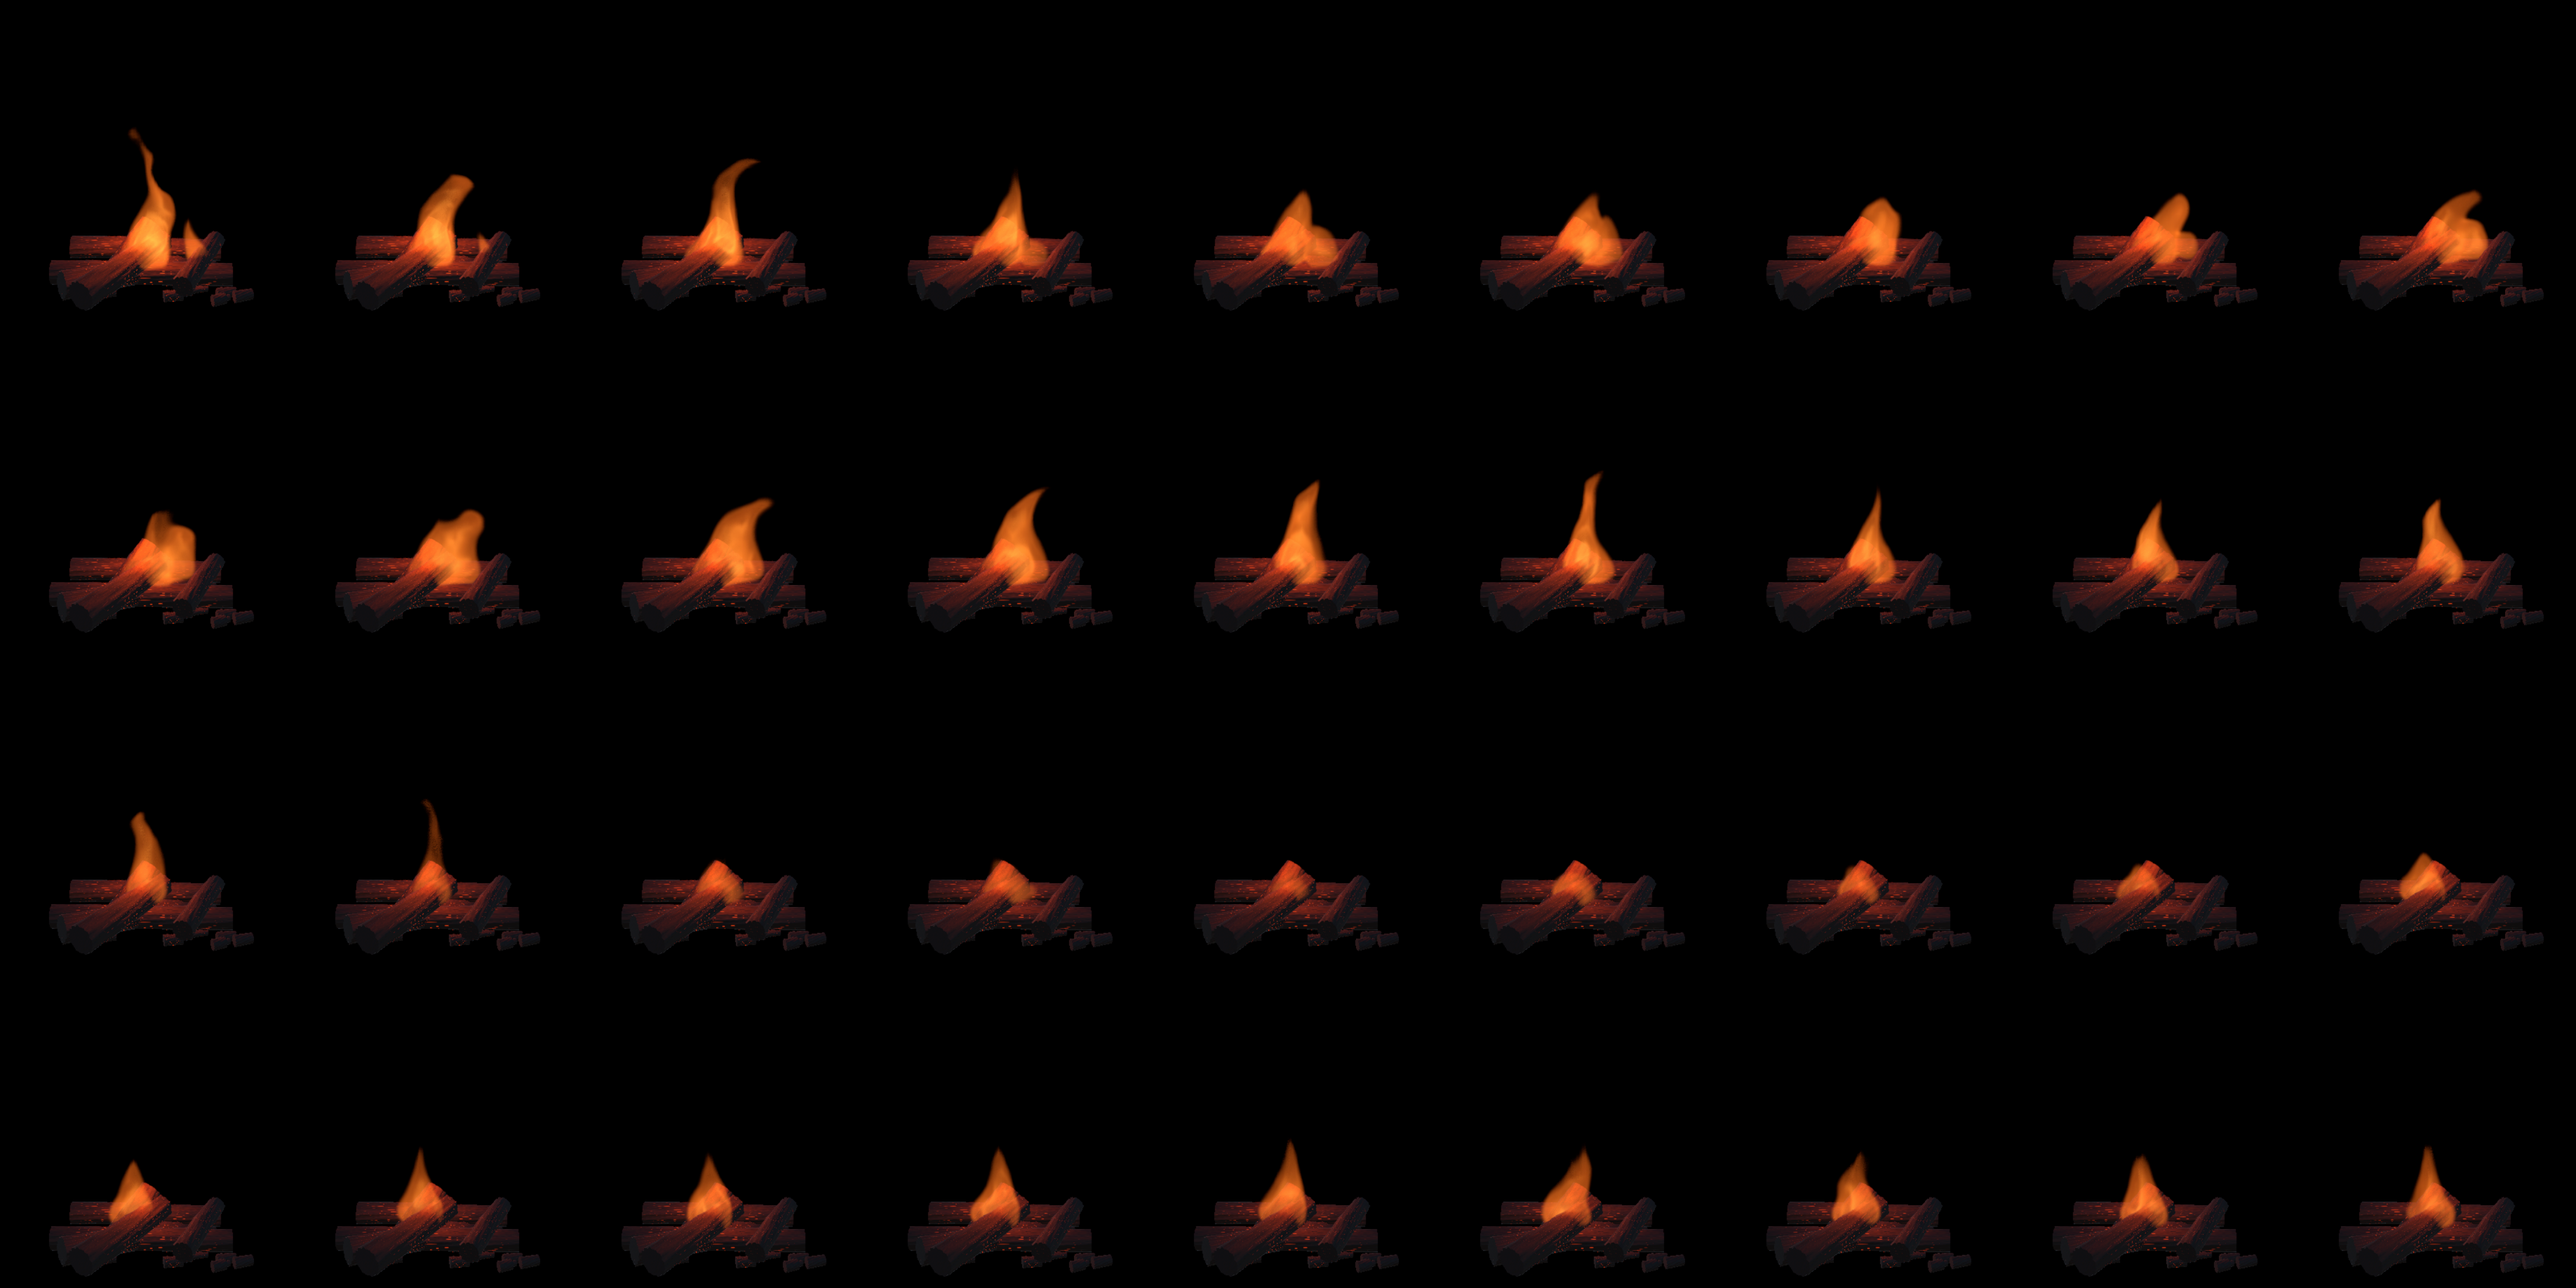
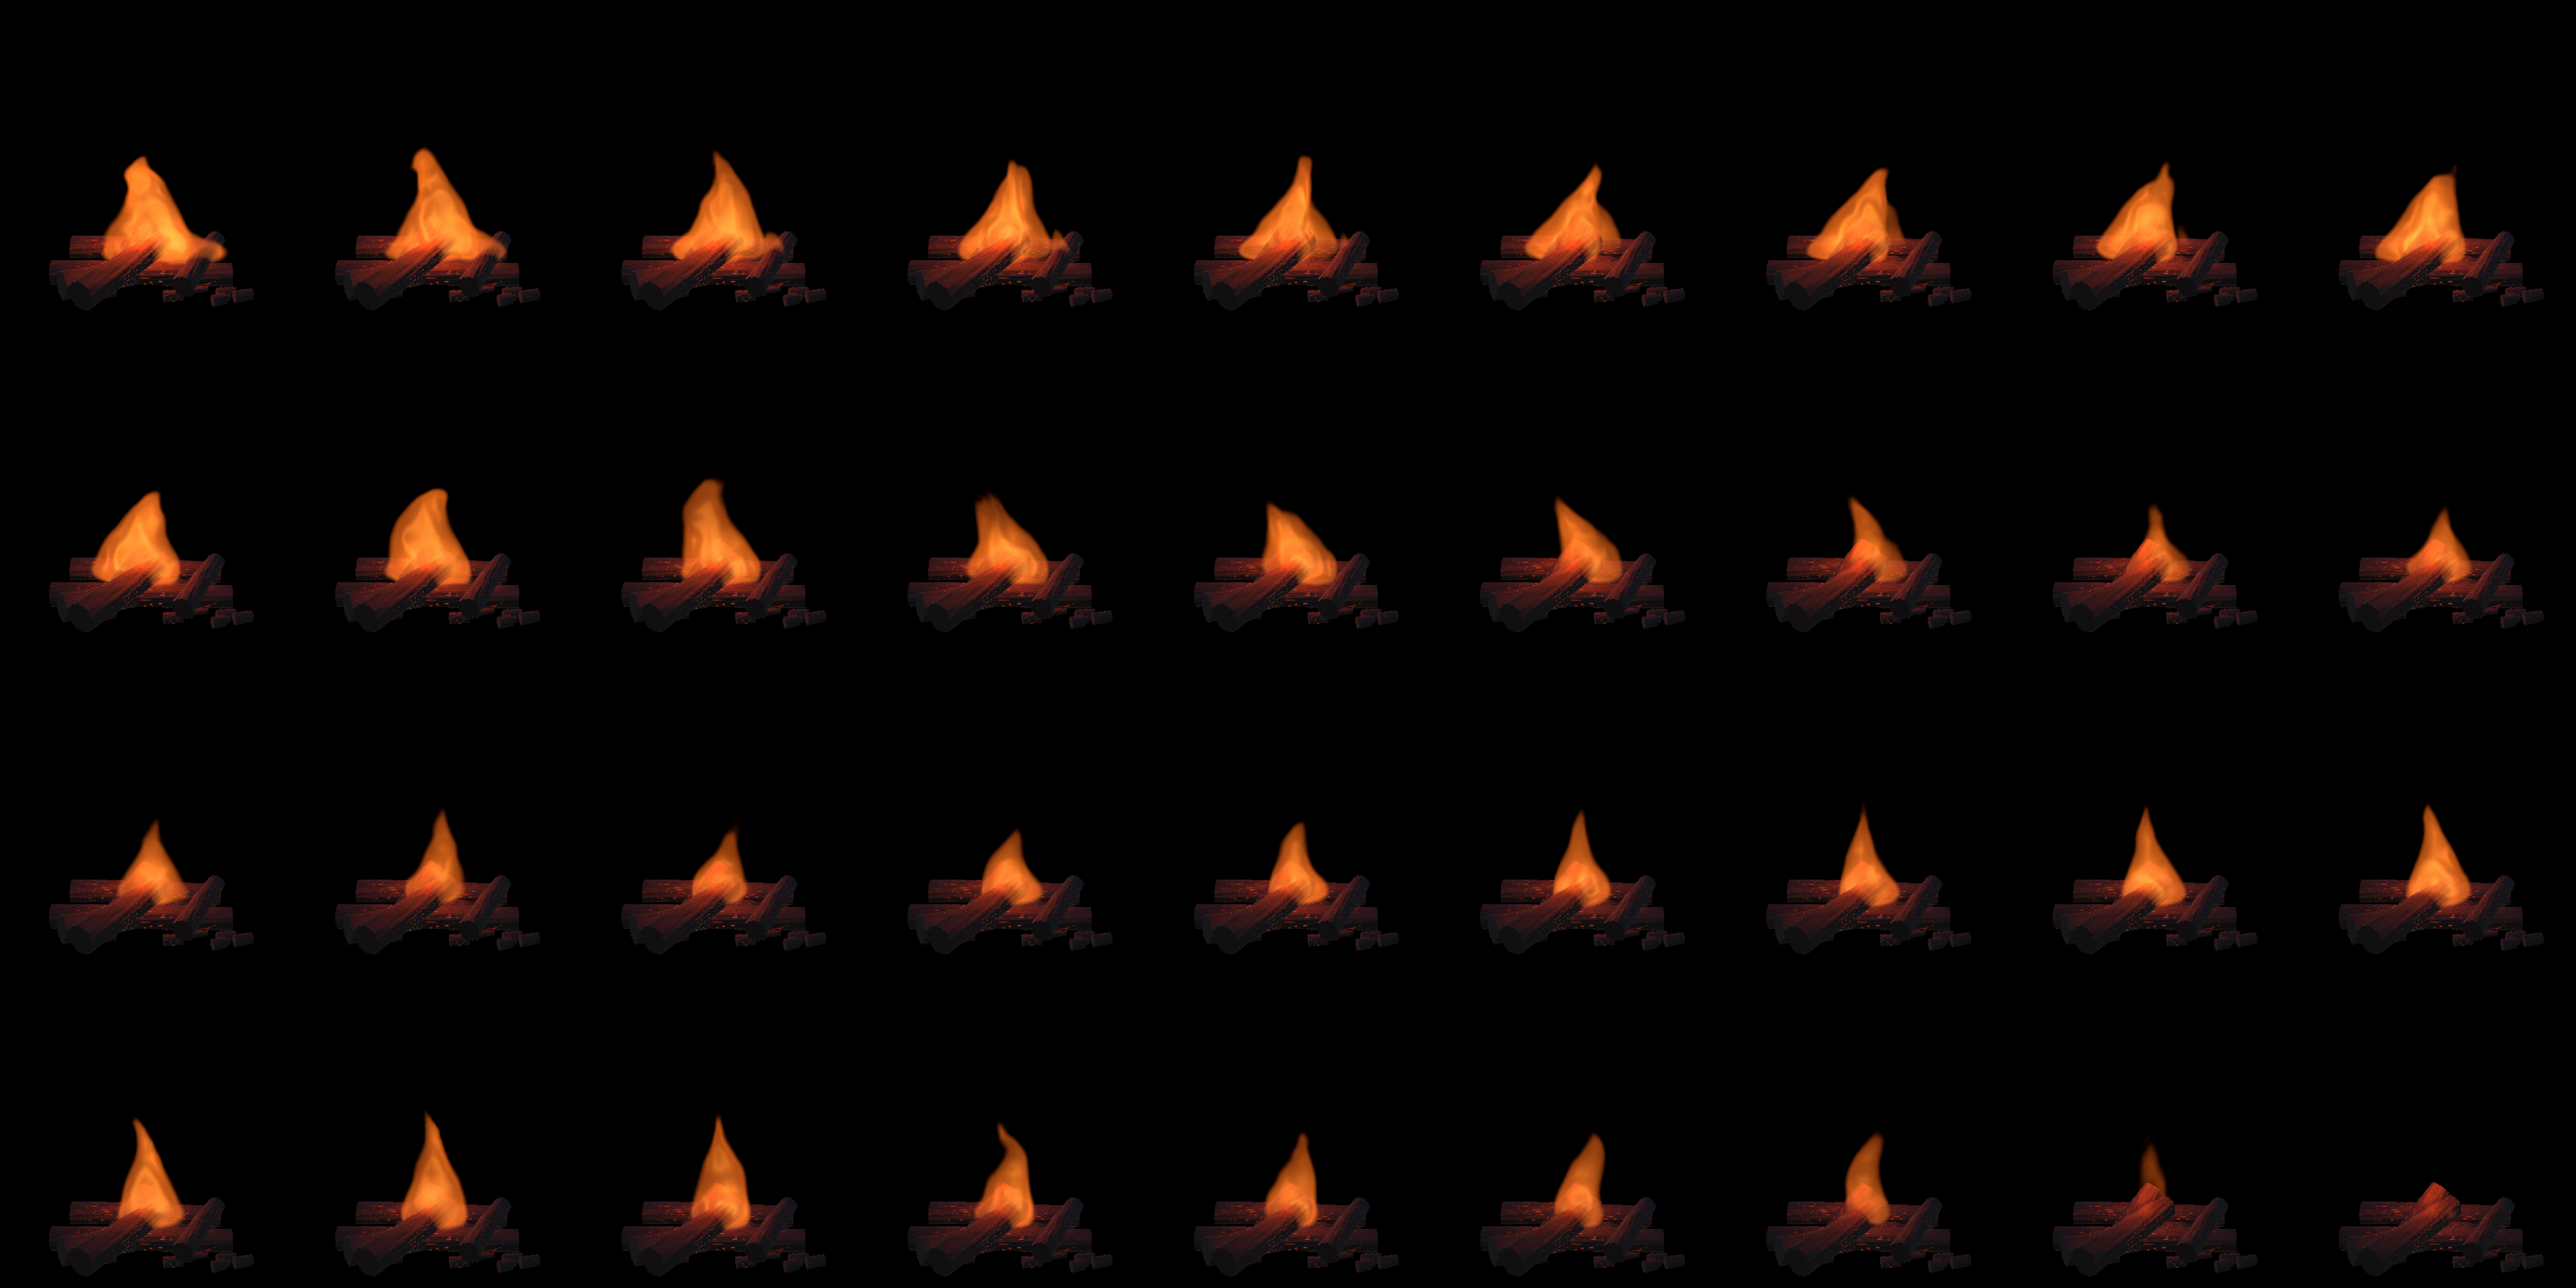
Widen the fluid flame to span the log bed
The inflow drawn in by the rising plume squeezed the fire into one narrow
column. Enlarge the burning bed, slow surface burning, and add a gas
expansion source so the flame stays as wide as the logs with several tongues.

diff --git a/BonfireUnity/Assets/InteractiveBonfire/Runtime/BonfireSimulation.cs b/BonfireUnity/Assets/InteractiveBonfire/Runtime/BonfireSimulation.cs
@@ -101,7 +101,7 @@ namespace InteractiveBonfire
             Bind(vorticity,velocity,aux); Dispatch(vorticity);
             Bind(forces,velocity,velocityNext); compute.SetTexture(forces,"_Aux",aux); compute.SetTexture(forces,"_State",state);
             compute.SetTexture(forces,"_Noise",noise); Dispatch(forces); Swap(ref velocity,ref velocityNext);
-            Bind(divergence,velocity,aux); Dispatch(divergence);
+            Bind(divergence,velocity,aux); compute.SetTexture(divergence,"_Noise",noise); Dispatch(divergence);
             // 前回の圧力から始めるので、少ない反復で済む。
             compute.SetTexture(jacobi,"_Aux",aux);
             for(int k=0;k<PressureIterations;k++) { Bind(jacobi,pressure,pressureNext); Dispatch(jacobi); Swap(ref pressure,ref pressureNext); }

diff --git a/流体の炎への変更.md b/流体の炎への変更.md
@@ -24,6 +24,7 @@
 |やりたいこと|場所|
 |---|---|
 |炎の高さ|`AdvectedFire.compute` の `FrontSpeed`、`BurnRate`（小さいほど高い）|
+|炎の幅|`AdvectedFire.compute` の `BedAmount` の火床の広さ、`Expansion`（大きいと根元が薪の外へ広がる）、`FrontSpeed`|
 |立ち上がりの速さ|同じく `Buoyancy`、`VentSpeed`、`Drag`|
 |渦の強さ|同じく `Confinement`|
 |横風・燃え上がりの強さと頻度|`BonfireSimulation.cs` の `Drive`|
